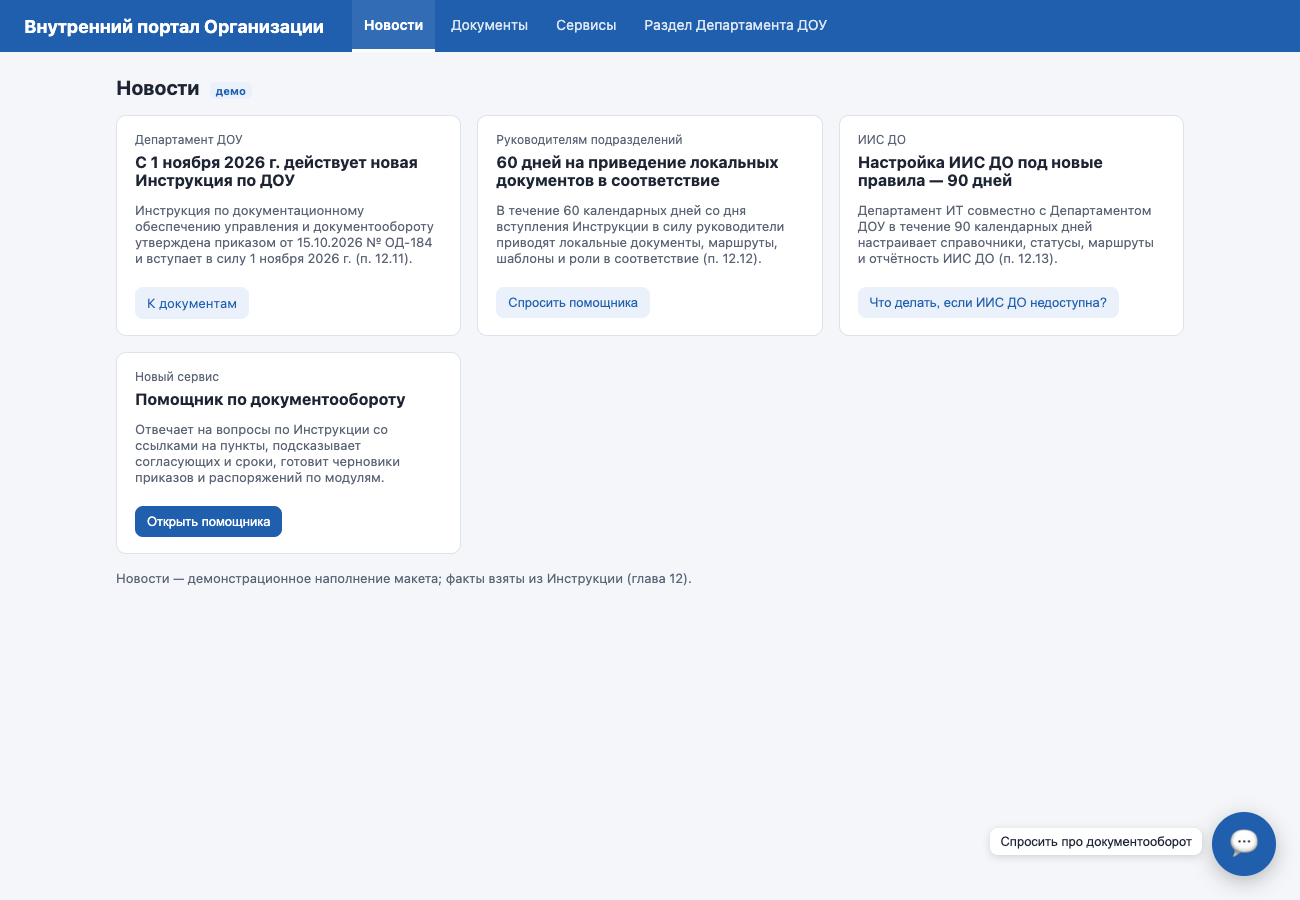
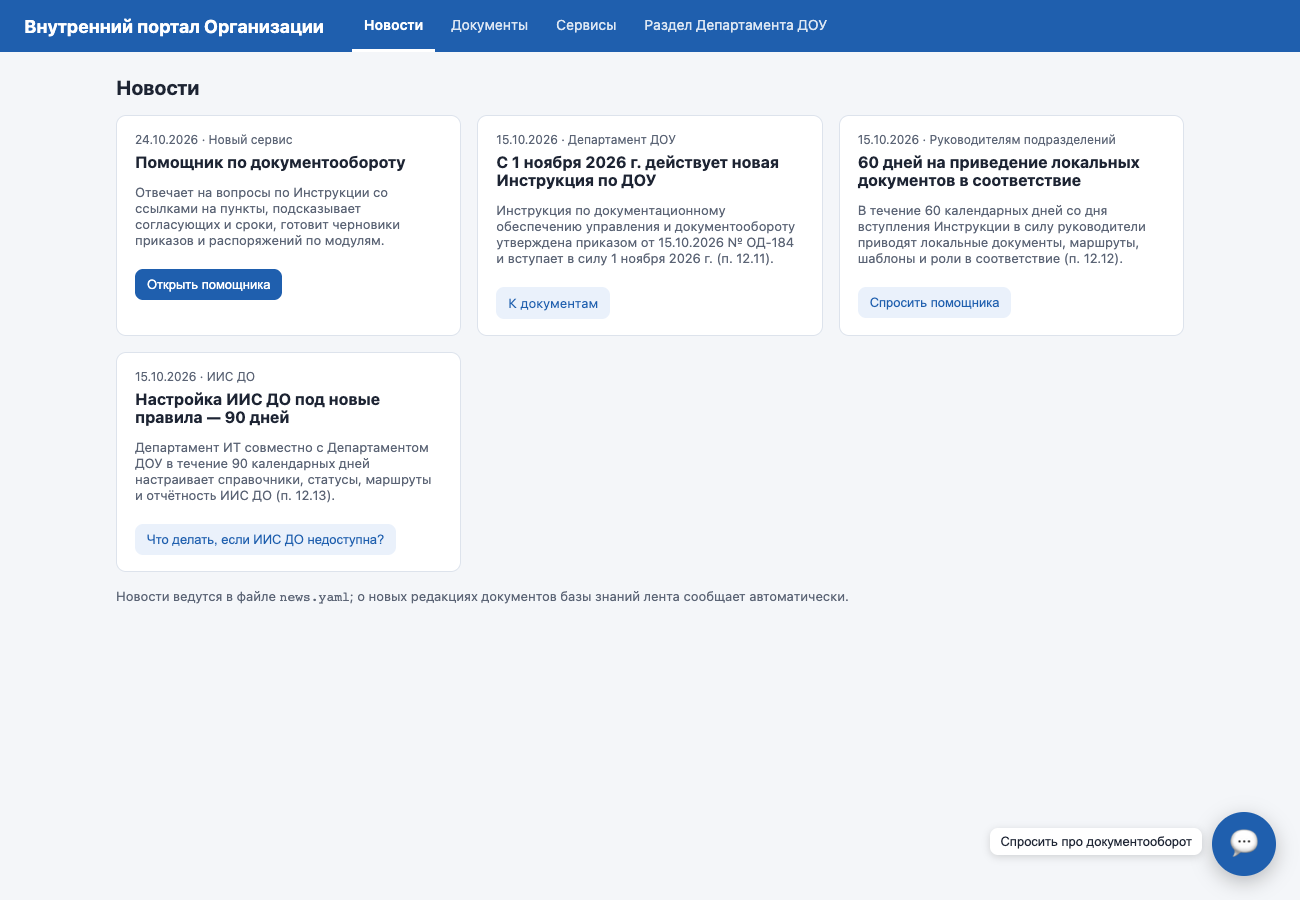
Живые новости портала: news.yaml и авто-новости о новых редакциях
Вкладка «Новости» берёт ленту из /api/news: записи из news.yaml (правятся без кода
и перезапуска) плюс новость на каждую новую редакцию документа из реестра версий —
с датой вступления в силу и диффом пунктов. Внешние ссылки в новостях отбрасываются.

diff --git a/public/portal_widget.html b/public/portal_widget.html
@@ -66,36 +66,9 @@
 <main>
   <!-- Новости -->
   <section id="tab-news" hidden>
-    <h1>Новости <span class="tag">демо</span></h1>
-    <div class="cards">
-      <div class="card">
-        <div class="meta">Департамент ДОУ</div>
-        <h2>С 1 ноября 2026 г. действует новая Инструкция по ДОУ</h2>
-        <p class="note">Инструкция по документационному обеспечению управления и документообороту утверждена приказом от 15.10.2026 № ОД-184 и вступает в силу 1 ноября 2026 г. (п. 12.11).</p>
-        <a class="btn ghost" href="#docs">К документам</a>
-      </div>
-      <div class="card">
-        <div class="meta">Руководителям подразделений</div>
-        <h2>60 дней на приведение локальных документов в соответствие</h2>
-        <p class="note">В течение 60 календарных дней со дня вступления Инструкции в силу руководители приводят локальные документы, маршруты, шаблоны и роли в соответствие (п. 12.12).</p>
-        <button class="btn ghost" data-ask="Что нужно сделать руководителям подразделений после вступления Инструкции в силу?">Спросить помощника</button>
-        <div class="answer"></div>
-      </div>
-      <div class="card">
-        <div class="meta">ИИС ДО</div>
-        <h2>Настройка ИИС ДО под новые правила — 90 дней</h2>
-        <p class="note">Департамент ИТ совместно с Департаментом ДОУ в течение 90 календарных дней настраивает справочники, статусы, маршруты и отчётность ИИС ДО (п. 12.13).</p>
-        <button class="btn ghost" data-ask="Что делать, если ИИС ДО не работает?">Что делать, если ИИС ДО недоступна?</button>
-        <div class="answer"></div>
-      </div>
-      <div class="card">
-        <div class="meta">Новый сервис</div>
-        <h2>Помощник по документообороту</h2>
-        <p class="note">Отвечает на вопросы по Инструкции со ссылками на пункты, подсказывает согласующих и сроки, готовит черновики приказов и распоряжений по модулям.</p>
-        <button class="btn" data-open-chat>Открыть помощника</button>
-      </div>
-    </div>
-    <p class="note" style="margin-top:16px">Новости — демонстрационное наполнение макета; факты взяты из Инструкции (глава 12).</p>
+    <h1>Новости</h1>
+    <div class="cards" id="news-body"><div class="note">Загрузка…</div></div>
+    <p class="note" style="margin-top:16px">Новости ведутся в файле <code>news.yaml</code>; о новых редакциях документов базы знаний лента сообщает автоматически.</p>
   </section>
 
   <!-- Документы -->
@@ -198,6 +171,7 @@
     const name = document.getElementById('tab-' + tab) ? tab : 'dou';
     document.querySelectorAll('main > section').forEach(s => s.hidden = s.id !== 'tab-' + name);
     document.querySelectorAll('nav a').forEach(a => a.classList.toggle('active', a.dataset.tab === name));
+    if (name === 'news') loadNews();
     if (name === 'docs' && !loaded.docs) { loaded.docs = true; loadDocs(); }
     if (name === 'services') loadHealth();
     if (name === 'dou' && !loaded.dou) { loaded.dou = true; loadDouList(); }
@@ -205,6 +179,22 @@
   window.addEventListener('hashchange', show);
 
   async function getJSON(url) { const r = await fetch(url); if (!r.ok) throw new Error(r.status); return r.json(); }
+
+  async function loadNews() {
+    const el = document.getElementById('news-body');
+    try {
+      const items = await getJSON('/api/news');
+      el.innerHTML = items.map(n => `<div class="card">
+        <div class="meta">${fmtDate(n.date)}${n.unit ? ' · ' + esc(n.unit) : ''}${n.auto ? '<span class="tag">авто</span>' : ''}</div>
+        <h2>${esc(n.title)}</h2>${n.text ? `<p class="note">${esc(n.text)}</p>` : ''}
+        ${n.link ? `<a class="btn ghost" href="${esc(n.link)}">${esc(n.link_label || 'Подробнее')}</a>` : ''}
+        ${n.ask ? `<button class="btn ghost" data-ask="${esc(n.ask)}">${esc(n.ask_label || 'Спросить помощника')}</button><div class="answer"></div>` : ''}
+        ${n.open_chat ? '<button class="btn" data-open-chat>Открыть помощника</button>' : ''}</div>`).join('')
+        || '<div class="note">Новостей пока нет.</div>';
+      el.querySelectorAll('[data-open-chat]').forEach(b => b.onclick = openChat);
+      bindAsk(el);
+    } catch (e) { el.innerHTML = `<div class="bad">Не удалось загрузить новости (${esc(e.message)})</div>`; }
+  }
 
   async function loadDocs() {
     const body = document.getElementById('docs-body'), tb = document.getElementById('tpl-body');
@@ -246,7 +236,7 @@
 
   // --- быстрые ответы помощника через REST API
   const plain = md => md.replace(/\*\*/g, '').replace(/^> ?/gm, '').replace(/_⏱.*$/m, '').trim();
-  document.querySelectorAll('[data-ask]').forEach(btn => btn.onclick = async () => {
+  const bindAsk = root => root.querySelectorAll('[data-ask]').forEach(btn => btn.onclick = async () => {
     const box = btn.parentElement.querySelector('.answer');
     if (box.style.display === 'block') { box.style.display = 'none'; return; }
     box.style.display = 'block'; box.textContent = 'Помощник ищет ответ…';
@@ -259,6 +249,7 @@
       box.innerHTML = esc(text) + (d.sources.length ? '\n\nИсточники: ' + esc(d.sources.map(s => s.label.split(' — ')[0] + (s.relevance != null ? ` (${s.relevance} %)` : '')).join('; ')) : '');
     } catch (e) { box.textContent = 'Не удалось получить ответ.'; }
   });
+  bindAsk(document);
 
   show();
 </script>

diff --git a/app/news.py b/app/news.py
@@ -1,0 +1,86 @@
+"""Лента новостей портала: записи из news.yaml и автоматические новости о новых редакциях
+документов базы знаний (из реестра версий)."""
+from __future__ import annotations
+
+import datetime as dt
+import logging
+import re
+from pathlib import Path
+
+import yaml
+
+from app.config import path
+from app.ingest.indexer import load_registry
+
+log = logging.getLogger(__name__)
+_FIELDS = ("date", "unit", "title", "text", "ask", "ask_label", "link", "link_label", "open_chat")
+_SECTION = re.compile(r"\d+(\.\d+)*")
+_LOCAL_LINK = re.compile(r"#\S*|/(?![/\\])\S*")  # «//host» и «/\host» браузер считает внешним адресом
+
+
+def _fmt_date(iso: str) -> str:
+    y, m, d = iso.split("-")
+    return f"{d}.{m}.{y}"
+
+
+def file_news(news_file: Path | None = None) -> list[dict]:
+    """Новости из news.yaml. Запись без даты или заголовка пропускается, ссылка — только внутренняя."""
+    p = news_file or path("news")
+    if not p.exists():
+        return []
+    try:
+        items = (yaml.safe_load(p.read_text(encoding="utf-8")) or {}).get("items") or []
+    except yaml.YAMLError as e:
+        log.error("news.yaml не разобран: %s", e)
+        return []
+    out = []
+    for i, it in enumerate(items):
+        if not isinstance(it, dict) or not it.get("date") or not it.get("title"):
+            log.warning("news.yaml: запись %d пропущена — нужны date и title", i + 1)
+            continue
+        n = {k: it[k] for k in _FIELDS if it.get(k) not in (None, "")}
+        n["date"] = str(n["date"])
+        try:
+            dt.date.fromisoformat(n["date"])
+        except ValueError:
+            log.warning("news.yaml: запись %d пропущена — дата %r не в формате ГГГГ-ММ-ДД", i + 1, n["date"])
+            continue
+        if "link" in n and not _LOCAL_LINK.fullmatch(str(n["link"])):
+            log.warning("news.yaml: внешняя ссылка %r убрана (портал работает без внешних адресов)", n["link"])
+            n.pop("link")
+        out.append(n)
+    return out
+
+
+def _sections(keys: list[str], limit: int = 5) -> str:
+    names = [f"п. {k}" if _SECTION.fullmatch(k) else k for k in keys[:limit]]
+    return ", ".join(names) + (" и др." if len(keys) > limit else "")
+
+
+def edition_news(reg: dict | None = None) -> list[dict]:
+    """Новость на каждую загруженную новую редакцию (у версии есть предыдущая — значит, есть дифф)."""
+    reg = reg or load_registry()
+    out = []
+    for doc_id, d in reg["documents"].items():
+        for v in d["versions"]:
+            diff = v.get("diff_from_previous")
+            if diff is None:
+                continue
+            parts = [f"{label}: {len(diff[k])} ({_sections(diff[k])})"
+                     for k, label in (("changed", "изменено"), ("added", "добавлено"), ("removed", "исключено"))
+                     if diff[k]]
+            changes = "Пункты: " + "; ".join(parts) + "." if parts else "Текст пунктов не изменился."
+            out.append({
+                "date": v["ingested_at"][:10], "unit": "База знаний помощника", "auto": True,
+                "title": f"Новая редакция {v['version']}: {d['title']}",
+                "text": f"Действует с {_fmt_date(v['effective_date'])}; прежняя редакция переведена в архив. "
+                        f"{changes} Помощник уже отвечает по новой редакции.",
+                "link": "#docs", "link_label": "К документам", "doc_id": doc_id,
+            })
+    return out
+
+
+def news(news_file: Path | None = None, reg: dict | None = None) -> list[dict]:
+    """Вся лента, свежие сверху; при равной дате — порядок файла, новости о редакциях первыми."""
+    items = edition_news(reg) + file_news(news_file)
+    return sorted(items, key=lambda n: n["date"], reverse=True)

diff --git a/tests/test_core.py b/tests/test_core.py
@@ -228,6 +228,32 @@ def test_versioning(tmp_path, monkeypatch):
         cfgmod.get_config.cache_clear()
 
 
+# ------------------------------------------------------------------ новости портала
+
+def test_news_feed(tmp_path):
+    from app.news import news
+    f = tmp_path / "news.yaml"
+    f.write_text(yaml.safe_dump({"items": [
+        {"date": "2026-10-15", "title": "Старая", "link": "#docs"},
+        {"date": "2026-10-20", "title": "Внешняя ссылка", "link": "//evil.example/x"},
+        {"title": "Без даты"},
+        {"date": "15.10.2026", "title": "Дата не ISO"},
+    ]}, allow_unicode=True), encoding="utf-8")
+    reg = {"documents": {"instr_dou": {"title": "Инструкция", "versions": [
+        {"version": "1.0", "effective_date": "2026-11-01", "ingested_at": "2026-10-24T00:00:11", "diff_from_previous": None},
+        {"version": "1.1", "effective_date": "2027-01-15", "ingested_at": "2026-12-01T10:00:00",
+         "diff_from_previous": {"added": ["12.14"], "removed": [], "changed": ["1.1", "1.2", "2.1", "2.2", "3.1", "3.2"]}},
+    ]}}}
+    items = news(f, reg)
+    assert [n["title"] for n in items] == ["Новая редакция 1.1: Инструкция", "Внешняя ссылка", "Старая"]
+    auto = items[0]
+    assert auto["auto"] and auto["date"] == "2026-12-01" and "15.01.2027" in auto["text"]
+    assert "изменено: 6 (п. 1.1, п. 1.2, п. 2.1, п. 2.2, п. 3.1 и др.)" in auto["text"] and "добавлено: 1 (п. 12.14)" in auto["text"]
+    assert "link" not in items[1] and items[2]["link"] == "#docs"
+    assert news(tmp_path / "нет.yaml", reg) == items[:1]
+    assert len(news(ROOT / "news.yaml", {"documents": {}})) >= 4   # рабочий файл разбирается целиком
+
+
 # ------------------------------------------------------------------ интеграция (нужна Ollama)
 
 def _ollama_up() -> bool:

diff --git a/tests/ui_demo.py b/tests/ui_demo.py
@@ -164,6 +164,8 @@ async def main(url: str) -> int:
             await wpage.wait_for_timeout(1000)
             visible = await wpage.locator(f"#tab-{hash_[1:]}:not([hidden])").count()
             check(wpage.url.endswith(hash_) and visible == 1, f"вкладка портала «{tab}» открывается", failures)
+            if hash_ == "#news":
+                check(await wpage.locator("#news-body .card").count() >= 4, "в «Новостях» лента из news.yaml", failures)
             if hash_ == "#docs":
                 check(await wpage.locator("#docs-body a").count() >= 3 and await wpage.locator("#tpl-body tr").count() == 7,
                       "в «Документах» список документов базы знаний и 7 модулей", failures)

diff --git a/app/api.py b/app/api.py
@@ -96,6 +96,14 @@ def source_file(doc_id: str):
     return FileResponse(p, filename=p.name)
 
 
+@router.get("/api/news")
+def news():
+    """Лента вкладки «Новости»: news.yaml + новости о новых редакциях из реестра версий."""
+    from app.news import news as load_news
+
+    return load_news()
+
+
 @router.get("/api/templates")
 def templates():
     from app.templates.catalog import load_templates

diff --git a/docs/ui_mockup.md b/docs/ui_mockup.md
@@ -3,7 +3,7 @@
 Два варианта одного и того же чата:
 
 1. **Отдельный веб-интерфейс** — http://localhost:8000/?chat (Chainlit).
-2. **Поп-ап виджет для портала** — макет страницы портала http://localhost:8000/widget: плавающая кнопка в правом нижнем углу открывает окно чата (iframe). В продакшне подключается одной строкой скрипта, а роль передаётся из SSO портала. Вкладки макета рабочие (адреса `#news`, `#docs`, `#services`, `#dou`, работает «назад»): «Документы» берёт список из базы знаний (`/api/kb/documents`, `/api/templates`) и даёт скачать оригиналы, «Сервисы» показывает статус системы (`/api/health`), частые вопросы отвечают через `POST /api/ask`.
+2. **Поп-ап виджет для портала** — макет страницы портала http://localhost:8000/widget: плавающая кнопка в правом нижнем углу открывает окно чата (iframe). В продакшне подключается одной строкой скрипта, а роль передаётся из SSO портала. Вкладки макета рабочие (адреса `#news`, `#docs`, `#services`, `#dou`, работает «назад»): «Новости» — лента из `news.yaml` и автоматические новости о новых редакциях документов (`/api/news`), «Документы» берёт список из базы знаний (`/api/kb/documents`, `/api/templates`) и даёт скачать оригиналы, «Сервисы» показывает статус системы (`/api/health`), частые вопросы отвечают через `POST /api/ask`.
 
 Все скриншоты получены автоматически скриптом `tests/ui_demo.py` в Chrome.
 
@@ -37,7 +37,7 @@
 | Честный отказ + куда обратиться | ![](screenshots/07_no_answer.png) |
 | Отчёт проверки черновика | ![](screenshots/08_review.png) |
 | Поп-ап виджет на странице портала | ![](screenshots/09_portal_widget.png) |
-| Портал → «Новости» (демо-новости по главе 12 Инструкции) | ![](screenshots/10_portal_news.png) |
+| Портал → «Новости»: лента из `news.yaml` (факты из главы 12 Инструкции) | ![](screenshots/10_portal_news.png) |
 | Портал → «Документы»: действующие редакции базы знаний и модули, скачивание оригиналов | ![](screenshots/11_portal_docs.png) |
 | Портал → «Сервисы»: помощник, подготовка и проверка документа, статус системы | ![](screenshots/12_portal_services.png) |
 | Портал → «Раздел Департамента ДОУ»: частые вопросы с ответом помощника через API | ![](screenshots/13_portal_dou.png) |

diff --git a/README.md b/README.md
@@ -43,7 +43,7 @@ cp .env.example .env                      # при необходимости п
 
 - **http://localhost:8000/?chat** — чат;
 - **http://localhost:8000** (или `/widget`) — макет страницы портала с поп-ап виджетом;
-- **http://localhost:8000/api/health**, `POST /api/ask`, `/api/kb/versions`, `/api/kb/documents`, `/api/templates` — REST API ядра.
+- **http://localhost:8000/api/health**, `POST /api/ask`, `/api/kb/versions`, `/api/kb/documents`, `/api/templates`, `/api/news` — REST API ядра.
 
 Перед первым запуском нужны Python 3.11+ и Ollama (`brew install ollama` на macOS или https://ollama.com/download). Для первого запуска нужен интернет (зависимости и модели ~2,2 ГБ), дальше всё работает офлайн.
 
@@ -110,7 +110,7 @@ python tests/ui_demo.py
 ```
 app/
   main.py            Chainlit: чат, роли, источники, файлы, 👍/👎
-  api.py             FastAPI: /api/ask, /api/health, /api/kb/versions, /widget; фильтр внешних ссылок
+  api.py             FastAPI: /api/ask, /api/health, /api/kb/versions, /api/news, /widget; фильтр внешних ссылок
   dialog/            классификатор намерений (правила), движок диалога, уточнения, состояние сессии
   ingest/            парсеры PDF/DOCX, чанкинг по пунктам, индексация, версии
   retrieval/         гибридный поиск (bge-m3 + BM25), % релевантности, порог, связанные пункты
@@ -119,9 +119,11 @@ app/
   templates/         каталог шаблонов, заполнение полей, сборка docxtpl и рендер .docx
   review/            проверка загруженного черновика
   security/          роли и фильтр доступа, маскирование ПДн, аудит-лог
+  news.py            лента портала: news.yaml + новости о новых редакциях из реестра
 templates_yaml/      описания 7 модулей: поля, вопросы, валидация, подсказки, чек-листы
 scripts/ingest.py    загрузка новой версии документа
 config.yaml          модель, пороги, источники, роли, контакты
+news.yaml            новости вкладки «Новости» портала (правятся без кода)
 docs/                артефакты для сдачи (архитектура, сценарии, безопасность, демо…)
 ```
 

diff --git a/docs/extensibility.md b/docs/extensibility.md
@@ -51,6 +51,21 @@
    ```
 3. Всё. docxtpl-шаблон соберётся из модуля автоматически, а шаблон появится в подборе и в списке выбора. Дополнительно: `numbering` (перенумерация при необязательных пунктах), `derived` (вычисляемые поля, например число «проекту/проектам»), `row_tables` (таблицы с переменным числом строк), `matrix_conditions` (условные визы по ответу «да/нет»).
 
+## Новости портала
+
+Вкладка «Новости» читает `news.yaml` (путь — `config.yaml → paths.news`) при каждом открытии, перезапуск не нужен:
+```yaml
+items:
+  - date: 2026-11-01                # ГГГГ-ММ-ДД, свежие сверху
+    unit: Департамент ДОУ           # рубрика над заголовком
+    title: Обновлены модули распоряжений
+    text: Короткий текст новости.
+    ask: С кем согласовать распоряжение о рабочей группе?   # кнопка с ответом помощника в карточке
+    link: "#docs"                   # только внутренние ссылки; внешние отбрасываются
+    link_label: К документам
+```
+Запись без даты или заголовка пропускается с предупреждением в логе. Новость о новой редакции документа (`scripts/ingest.py --version …`) появляется в ленте сама: из реестра версий, с датой вступления в силу и числом изменённых пунктов.
+
 ## Новые роли и уровни доступа
 
 `config.yaml → access_levels` и `roles` (название, список уровней, `can_view_archive`). Фильтр в индексе строится из этого списка.
